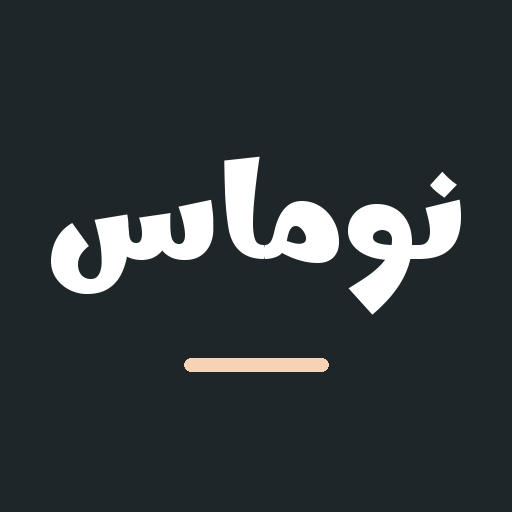
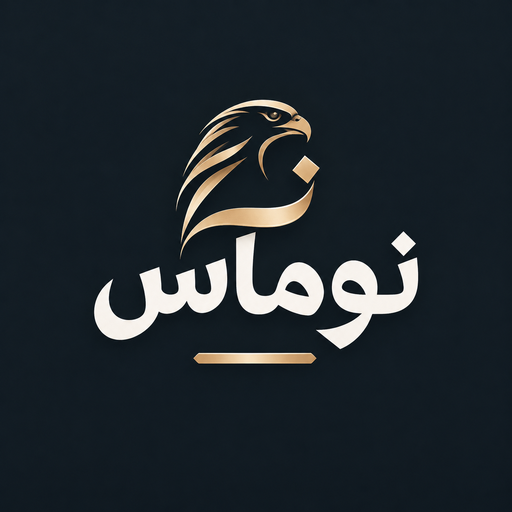
اعتماد شعار الصقر لنوماس: شاشة الدخول والشريط العلوي وأيقونة التطبيق
Claude-Session: https://claude.ai/code/session_01UYtibS3skB8n9wX7viaJfL

Changed region(s): [[0.0938, 0.1875, 0.9062, 0.75]]

diff --git a/style.css b/style.css
@@ -1,6 +1,6 @@
 /* منصة نوماس — الهوية: الفحمي والفيروز والمشمش • خط مرهي */
 :root{
-  --ink:#1E2629; --char:#1E2629; --char2:#2A3438;
+  --ink:#1E2629; --char:#131C25; --char2:#1C2732; --gold:#C9A46E;
   --tq:#0E7275; --tq-d:#0B5C5F; --tq-l:#DDF1F1; --tq-b:#18A0A4;
   --ap:#F7D3B5; --ap-l:#FBEADB; --ap-b:#F2CFB0; --ap-ink:#6B3A16;
   --sil:#C9CED3; --sil-l:#E6E9EC; --bg:#F7F6F4; --card:#FFFFFF; --mut:#55636A;
@@ -20,8 +20,8 @@ a{color:var(--tq)}
 .brand{flex:1 1 420px;background:var(--char);color:#fff;position:relative;overflow:hidden;padding:56px 48px;display:flex;flex-direction:column;justify-content:space-between;gap:32px}
 .brand .pat{position:absolute;inset:0;opacity:.14;pointer-events:none}
 .brand .school{position:relative;color:var(--sil-l);font-size:15px}
-.brand .school::after{content:"";display:block;width:56px;height:2px;background:var(--sil);margin-top:8px}
-.brand h1{position:relative;margin:0;font-size:clamp(84px,12vw,140px);line-height:1;font-weight:700}
+.brand .school::after{content:"";display:block;width:56px;height:2px;background:var(--gold);margin-top:8px}
+.brand h1{position:relative;margin:0;line-height:0}.brand h1 img{width:min(340px,70vw);height:auto;display:block}
 .brand .tag{position:relative;font-size:clamp(20px,2.6vw,26px);font-weight:600;margin-top:4px}
 .brand .verse{position:relative;font-size:clamp(24px,3vw,36px);color:var(--ap);line-height:1.6}
 .brand .vref{position:relative;font-size:13px;color:var(--sil)}
@@ -56,7 +56,7 @@ textarea.inp{padding:10px 14px;min-height:80px;resize:vertical}
 
 /* ---------- الهيكل ---------- */
 .top{position:sticky;top:0;z-index:20;background:var(--char);color:#fff;height:70px;padding:0 24px;display:flex;align-items:center;justify-content:space-between;gap:16px}
-.top .logo{font-size:34px;font-weight:700;line-height:1}
+.top .logo{line-height:0}.top .logo img{height:48px;width:auto;display:block}
 .top .tv{font-size:17px;color:var(--ap)}
 .top .right{display:flex;align-items:center;gap:14px}
 .top .who{display:flex;flex-direction:column;align-items:flex-end;line-height:1.3}
@@ -163,7 +163,7 @@ table.t tr:nth-child(even) td{background:#FAFAF9}
   .nav button .n{position:absolute;margin:0;transform:translate(-14px,-14px)}
   .nav button{position:relative}
   .main{padding-bottom:84px}
-  .top{height:60px;padding:0 14px}.top .tv,.top .who{display:none}.top .logo{font-size:28px}
+  .top{height:60px;padding:0 14px}.top .tv,.top .who{display:none}.top .logo img{height:40px}
   .g2,.g3,.g4{grid-template-columns:minmax(0,1fr)}
   .item form{grid-template-columns:minmax(0,1fr)}
   .brand{padding:36px 24px;flex-basis:100%}

diff --git a/app.js b/app.js
@@ -125,7 +125,7 @@
       '<main class="login">' +
       '<section class="brand">' + PATTERN +
       '<div class="school">مدرسة الشيماء الثانوية للبنات</div>' +
-      '<div><h1>نوماس</h1><div class="tag">' + T1 + '</div>' +
+      '<div><h1><img src="icons/logo.png" alt="نوماس"></h1><div class="tag" style="margin-top:14px">' + T1 + '</div>' +
       '<div class="verse" style="margin-top:22px">' + VERSE + '</div><div class="vref">سورة القلم، الآية 4</div></div>' +
       '<div class="foot">منصة متابعة السلوك والانضباط وفق السياسة • العام الدراسي 2026 – 2027</div>' +
       '</section>' +
@@ -185,7 +185,7 @@
   function shell() {
     var me = S.me;
     app.innerHTML =
-      '<header class="top"><div style="display:flex;align-items:center;gap:16px"><span class="logo">نوماس</span><span class="tv verse">' + VERSE + '</span></div>' +
+      '<header class="top"><div style="display:flex;align-items:center;gap:16px"><span class="logo"><img src="icons/logo-bar.png" alt="نوماس"></span><span class="tv verse">' + VERSE + '</span></div>' +
       '<div class="right"><div class="who"><b>أ. ' + esc(me.name) + '</b><span>' + esc(me.roleLabel) + '</span></div>' +
       '<button class="iconbtn" id="bell" aria-label="الرسائل">' + ICON.bell + '<span class="badge hidden" id="bellBadge">0</span></button>' +
       '<button class="iconbtn" id="lo" aria-label="تسجيل الخروج">' + ICON.out + '</button></div></header>' +

diff --git a/sw.js b/sw.js
@@ -1,6 +1,6 @@
 /* نوماس — يحفظ ملفات الواجهة لتفتح بسرعة، والبيانات تُطلب دائمًا من الخادم */
-var CACHE = 'namoos-v1';
-var SHELL = ['./', 'index.html', 'style.css', 'app.js', 'config.js', 'manifest.webmanifest', 'icons/icon-192.png', 'icons/icon-512.png'];
+var CACHE = 'namoos-v2';
+var SHELL = ['./', 'index.html', 'style.css', 'app.js', 'config.js', 'manifest.webmanifest', 'icons/icon-192.png', 'icons/icon-512.png', 'icons/logo.png', 'icons/logo-bar.png'];
 self.addEventListener('install', function (e) { e.waitUntil(caches.open(CACHE).then(function (c) { return c.addAll(SHELL); })); self.skipWaiting(); });
 self.addEventListener('activate', function (e) {
   e.waitUntil(caches.keys().then(function (ks) { return Promise.all(ks.filter(function (k) { return k !== CACHE; }).map(function (k) { return caches.delete(k); })); }));

diff --git a/index.html b/index.html
@@ -5,7 +5,7 @@
 <meta name="viewport" content="width=device-width, initial-scale=1, viewport-fit=cover">
 <title>نوماس — متابعة السلوك والانضباط</title>
 <meta name="description" content="منصة نوماس لمتابعة السلوك والانضباط — مدرسة الشيماء الثانوية للبنات">
-<meta name="theme-color" content="#1E2629">
+<meta name="theme-color" content="#131C25">
 <link rel="manifest" href="manifest.webmanifest">
 <link rel="icon" href="icons/icon-192.png">
 <link rel="apple-touch-icon" href="icons/icon-192.png">
